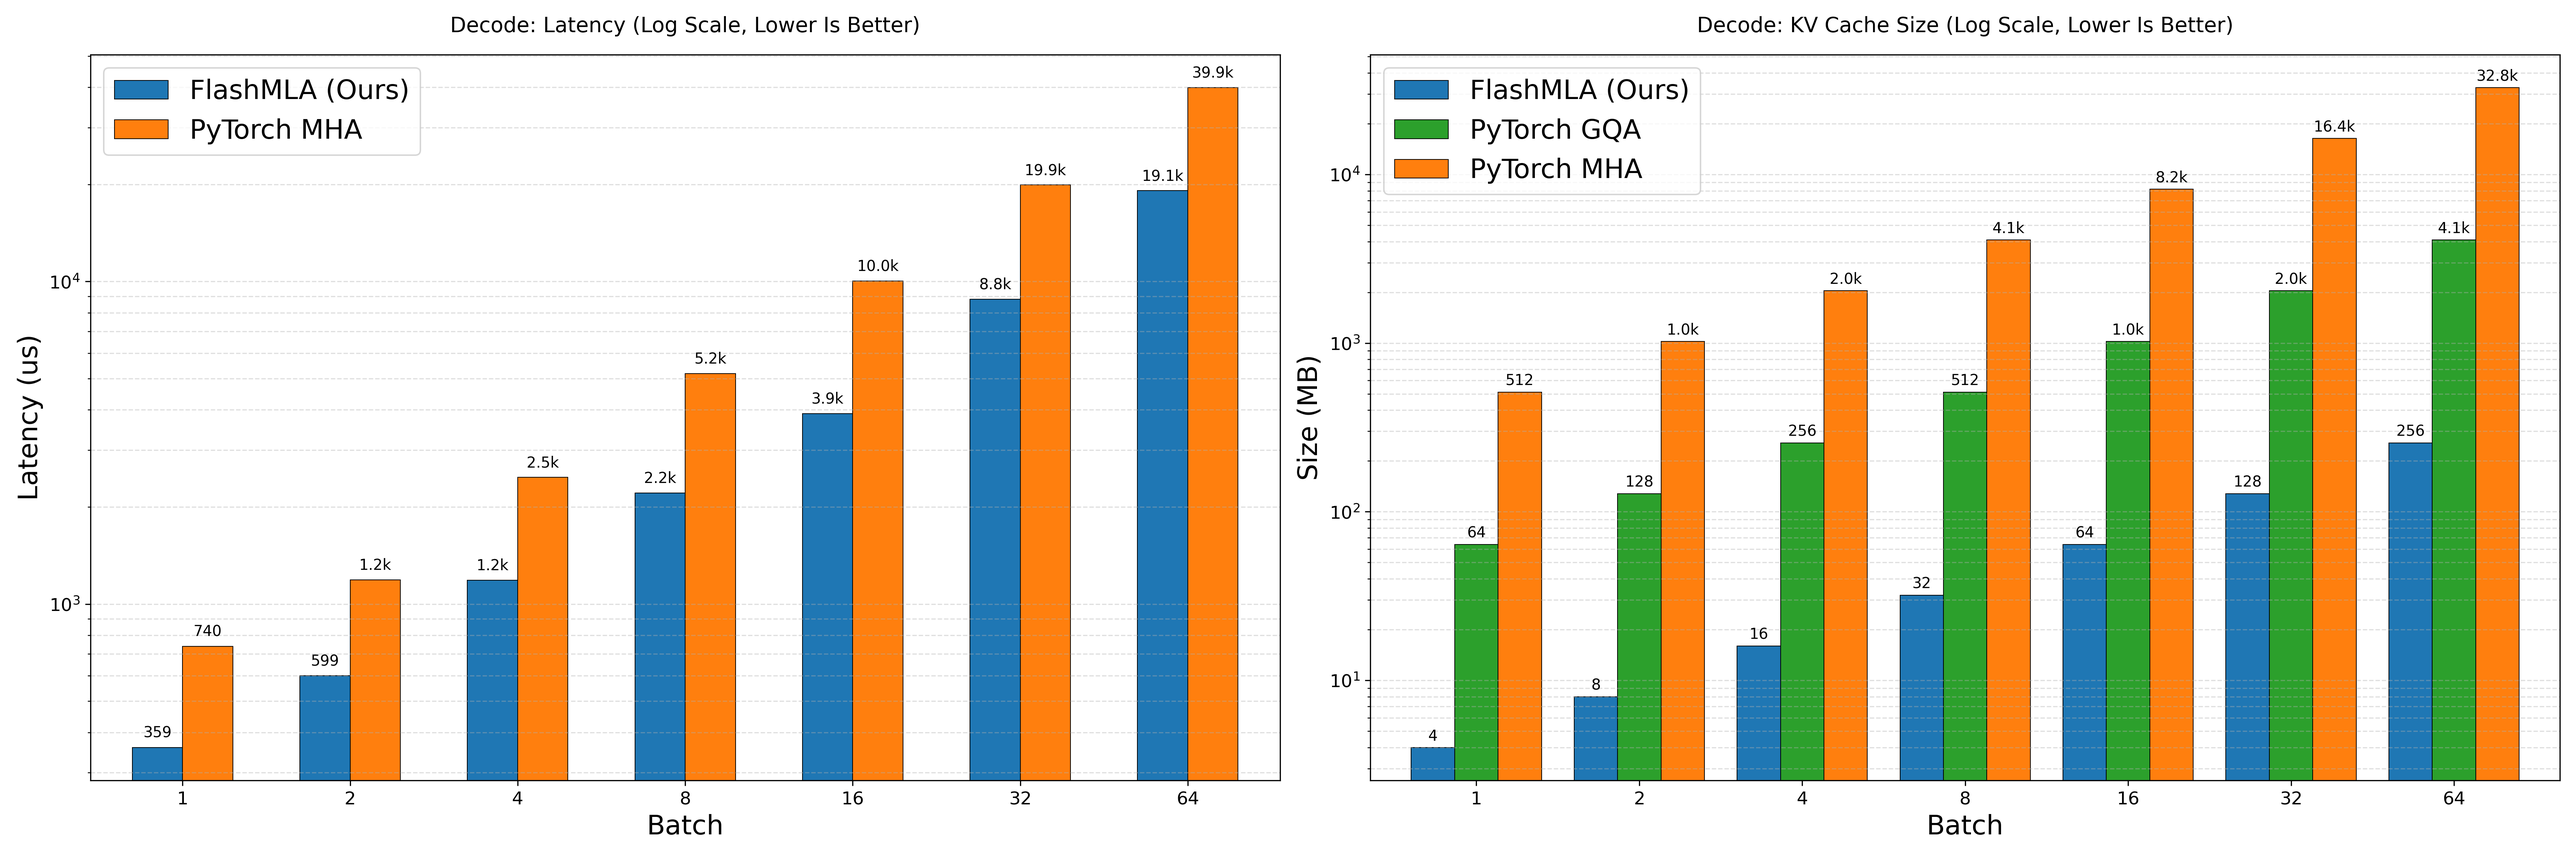
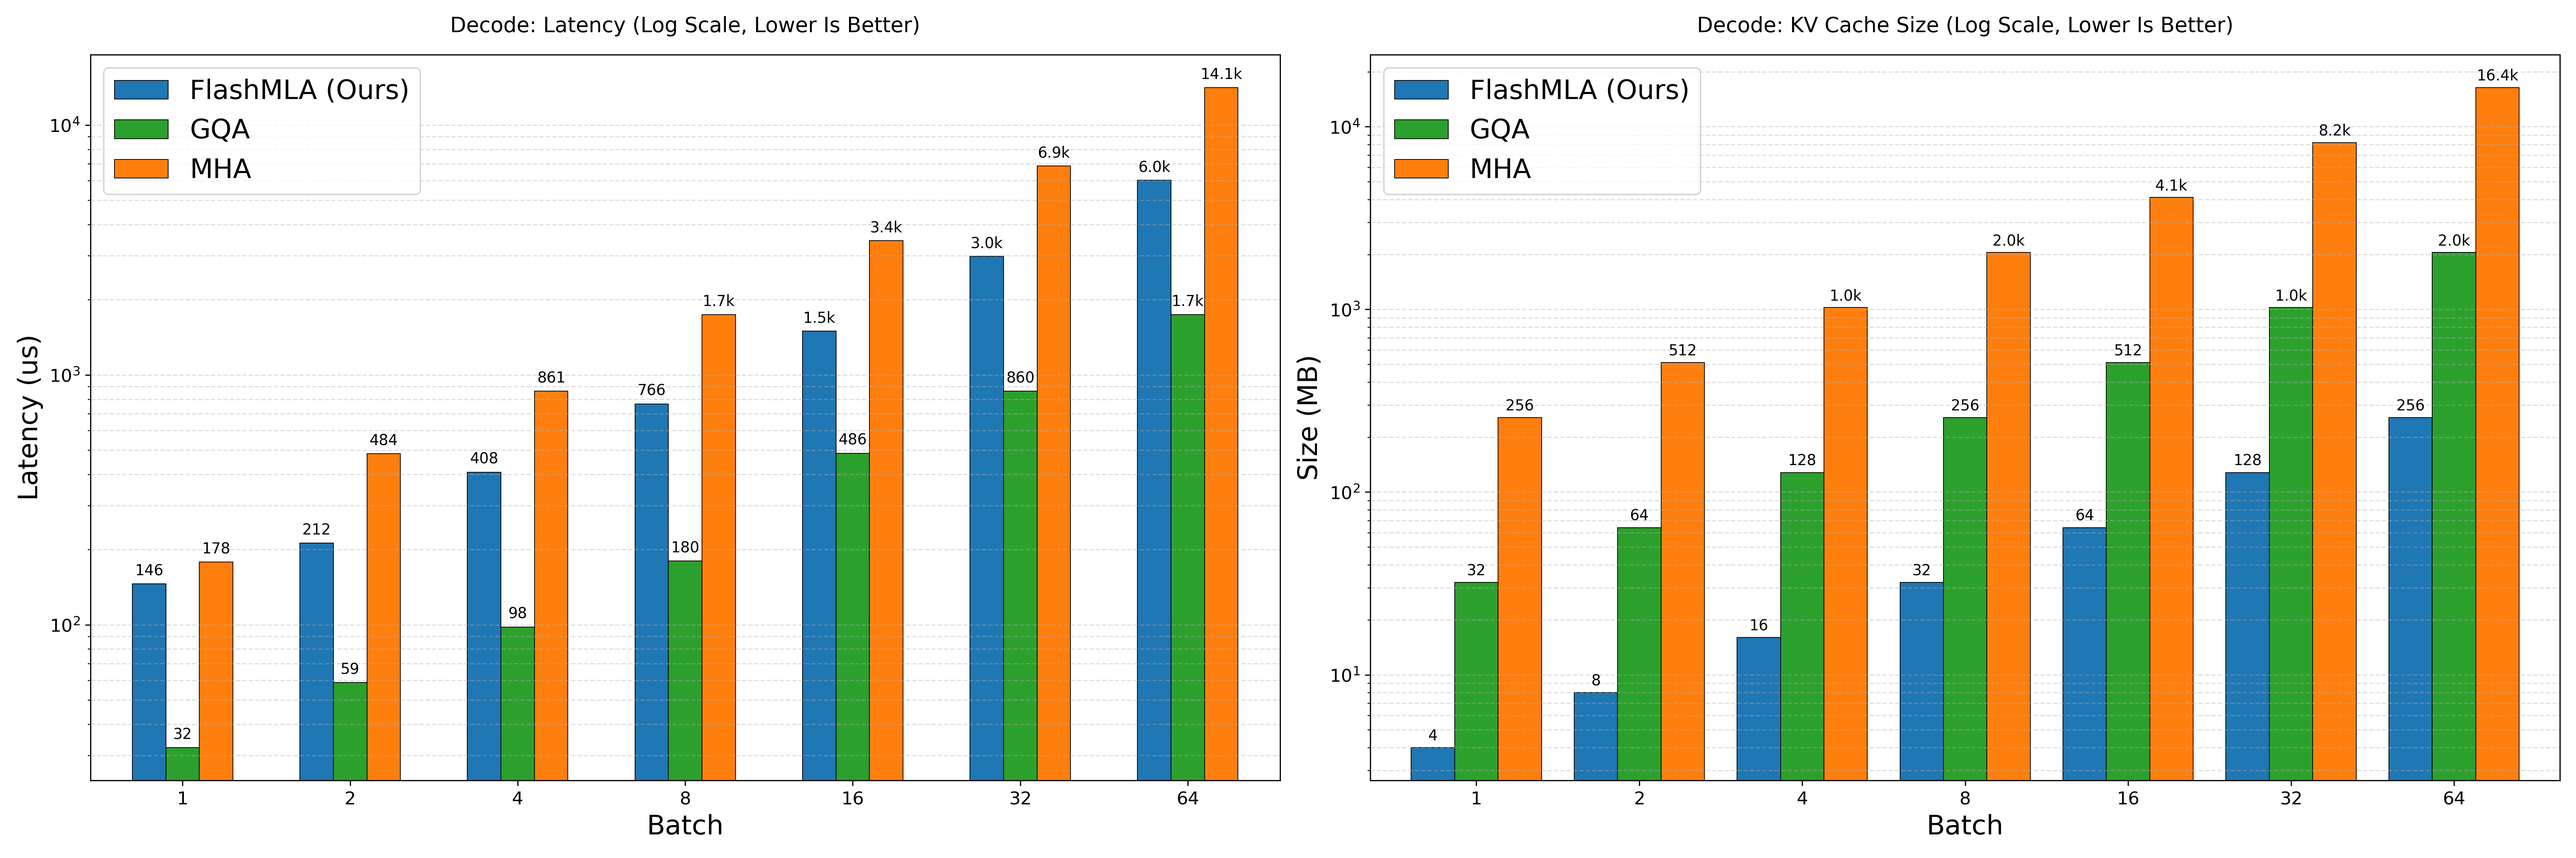
Update benchmarks

diff --git a/README.md b/README.md
@@ -5,8 +5,12 @@ FlashMLA is an fast and memory-efficient collection of MLA (Multi-Head Latent At
 ---
 ## Performance Benchmarks
 
-Benchmarks were conducted on NVIDIA A100-SXM4-80GB.
-Configuration: Heads=128, Dim=512 (DeepSeek V2/V3 Standard).
+Benchmarks are conducted on NVIDIA A100 (80GB). We compare FlashMLA against state-of-the-art implementations of standard attention mechanisms.
+
+Key Architectural Parameters:
+- FlashMLA: $d_c = 512$ (Compressed KV Latent)
+- MHA/GQA Baselines: $d_h = 128$ (Standard Head Dimension)
+- $n_{heads} = 128$
 
 ### Prefill Phase
 
